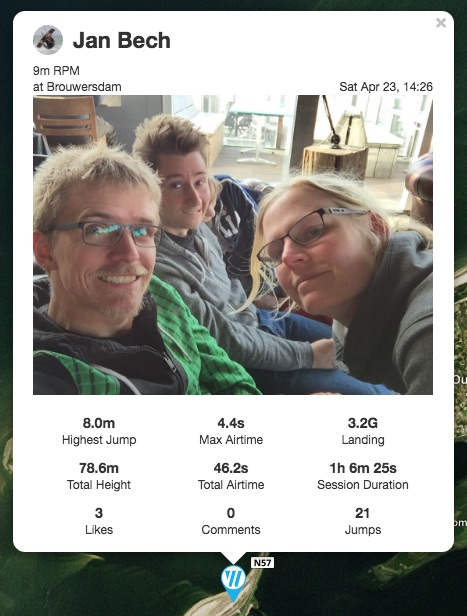
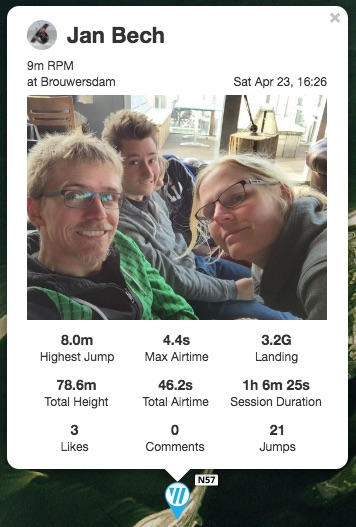
Update session details screenshot, readme wording

diff --git a/README.md b/README.md
@@ -16,7 +16,7 @@ A Heroku hosted instance of the map can be found here: [woo-map.herokuapp.com](h
 ## Further Development
 These are the ideas I currently have for extending the functionality of the map. If you have suggestions, feel free to contact me or add them as [issues](https://github.com/JanBe/woo-map/issues).
 
-* Use an endpoint of the WOO-API that returns all recent sessions instead of the "community"-view. Currently only sessions > 5m height are displayed.
+* Use an endpoint of the WOO-API that returns all recent sessions instead of the "community"-view. Currently only sessions over 5m height are displayed.
 * When an endpoint is used that returns all sessions, use a [day-night cycle overlay](http://joergdietrich.github.io/Leaflet.Terminator/) to see how the sessions move with the daylight. Currently the amount of sessions is not high enough for that.
 * Add a [Windity](https://www.windyty.com) overlay to display the current wind around the world. Ideally, adjust the current time of the overlay to a session when its details-window is opened.
 * Use a background job to load new sessions instead of checking for the necessity of an update on every call to `/sessions`.
